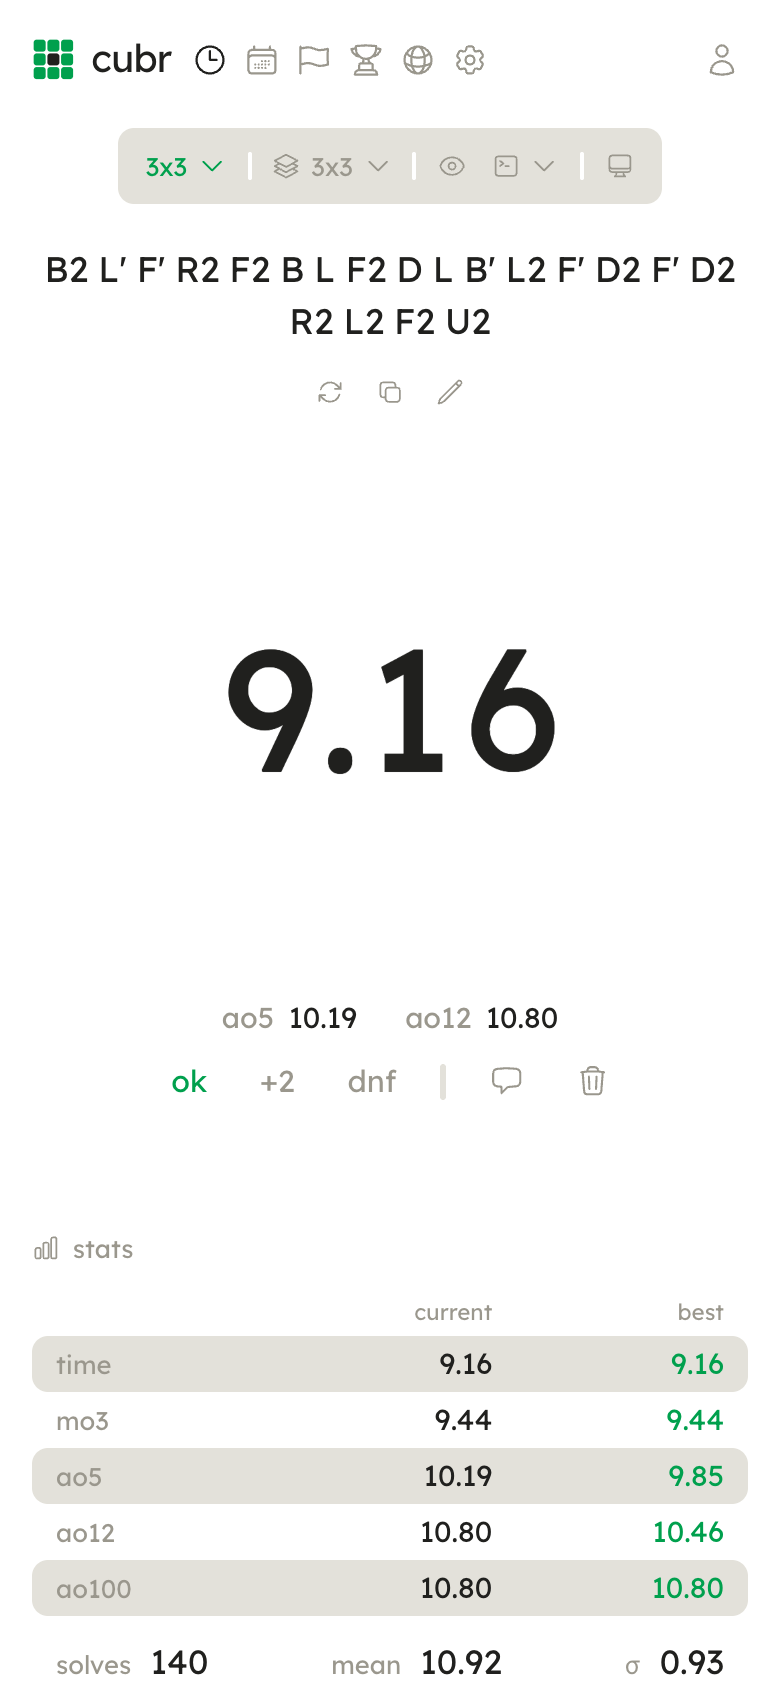
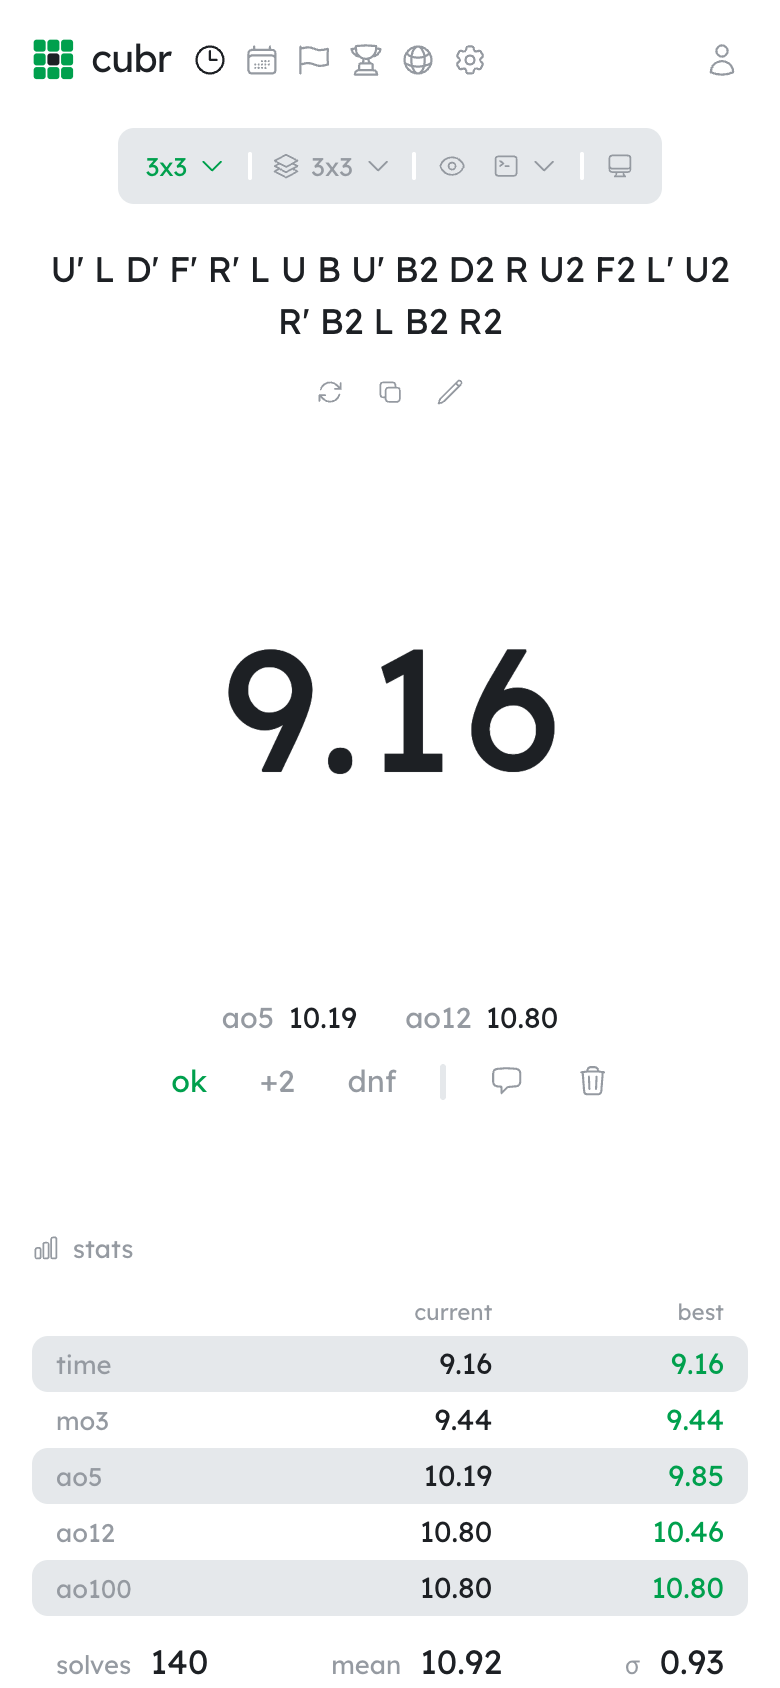
feat(web): white cross gets cool slate greys (Koen's pick)
White cross's warm greys (cards #e3e1da, labels #9a978d) came from its
old cream background; on pure white they read as beige, a little
muddy. Now cool slate: cards #e5e8eb, labels #959aa1, text #1d2024 (the
same lightness as before, so the contrast stays about the same).

- the theme, the first-paint defaults in global.css, the favicon (its
  centre sticker is the text colour), the reset email's text;
- the app icons and the light install screenshots redrawn;
- pwa-assets.mjs now clears the browser's site data before each
  screenshot (an earlier visit's service worker served its cached build
  and announced the new one) and seeds the guest data from a page that
  doesn't run the app (it saved its own fresh data over the seed).

Changed region(s): [[0.0615, 0.154, 0.7385, 0.2156], [0.7692, 0.154, 0.9538, 0.1848]]

diff --git a/web/src/lib/themes.ts b/web/src/lib/themes.ts
@@ -15,7 +15,7 @@ export interface Theme {
 
 export const THEMES: Theme[] = [
   {"name":"stickerless","bg":"#161616","main":"#ffd500","caret":"#ffd500","sub":"#6b6b6b","subAlt":"#202020","text":"#f1f1f1","error":"#e8263c","errorExtra":"#9c1426","colorfulError":"#ff6a13","colorfulErrorExtra":"#b34507"},
-  {"name":"white_cross","bg":"#ffffff","main":"#00a04d","caret":"#0046ad","sub":"#9a978d","subAlt":"#e3e1da","text":"#20201e","error":"#d0252f","errorExtra":"#8f1920","colorfulError":"#ff6a13","colorfulErrorExtra":"#b34507"},
+  {"name":"white_cross","bg":"#ffffff","main":"#00a04d","caret":"#0046ad","sub":"#959aa1","subAlt":"#e5e8eb","text":"#1d2024","error":"#d0252f","errorExtra":"#8f1920","colorfulError":"#ff6a13","colorfulErrorExtra":"#b34507"},
   {"name":"stackmat","bg":"#a3ad94","main":"#2b3a1f","caret":"#151a10","sub":"#5f6a52","subAlt":"#949f85","text":"#151a10","error":"#7d1d1d","errorExtra":"#5a1414","colorfulError":"#8a2a00","colorfulErrorExtra":"#5e1d00"},
   {"name":"sub_10","bg":"#10172a","main":"#f2c14e","caret":"#f2c14e","sub":"#4d5a7c","subAlt":"#0c1222","text":"#e6eaf4","error":"#ff5d6c","errorExtra":"#b33f4b","colorfulError":"#ff5d6c","colorfulErrorExtra":"#b33f4b"},
   {"name":"pll_skip","bg":"#1c1235","main":"#ff79d0","caret":"#6ef2ff","sub":"#6e5ca3","subAlt":"#160e2b","text":"#f3eeff","error":"#ffcc66","errorExtra":"#c99a3f","colorfulError":"#ffcc66","colorfulErrorExtra":"#c99a3f"},

diff --git a/services/auth/src/reset.ts b/services/auth/src/reset.ts
@@ -56,7 +56,7 @@ export function resetEmail(o: { username: string; link: string; minutes: number 
   const user = escapeHtml(o.username);
   const link = escapeHtml(o.link);
   const html = `<!doctype html>
-<html><body style="margin:0;padding:32px 16px;background:#ffffff;color:#20201e;font-family:-apple-system,BlinkMacSystemFont,'Segoe UI',Roboto,sans-serif;font-size:15px;line-height:1.55">
+<html><body style="margin:0;padding:32px 16px;background:#ffffff;color:#1d2024;font-family:-apple-system,BlinkMacSystemFont,'Segoe UI',Roboto,sans-serif;font-size:15px;line-height:1.55">
 <div style="max-width:480px;margin:0 auto">
 <p style="font-size:20px;font-weight:600;margin:0 0 24px">cubr</p>
 <p style="margin:0 0 16px">Hi ${user},</p>

diff --git a/web/src/styles/global.css b/web/src/styles/global.css
@@ -6,9 +6,9 @@
   --bg-color: #ffffff;
   --main-color: #00a04d;
   --caret-color: #0046ad;
-  --sub-color: #9a978d;
-  --sub-alt-color: #e3e1da;
-  --text-color: #20201e;
+  --sub-color: #959aa1;
+  --sub-alt-color: #e5e8eb;
+  --text-color: #1d2024;
   --error-color: #d0252f;
   --error-extra-color: #8f1920;
   --colorful-error-color: #ff6a13;

diff --git a/deploy/README.md b/deploy/README.md
@@ -117,11 +117,11 @@ Run `scripts/commands.sh` section by section (`scripts/commands.sh list` prints 
 
 | section  | Step |
 |---|---|
-| 0 | Variables (`PROJECT_ID=cubr-app`, `ZONE=australia-southeast1-a`, `CLUSTER=cubr`, `REPO=cubr`, `VERSION=1.3.16`) |
+| 0 | Variables (`PROJECT_ID=cubr-app`, `ZONE=australia-southeast1-a`, `CLUSTER=cubr`, `REPO=cubr`, `VERSION=1.3.17`) |
 | 1 | `gcloud auth list`, select your account (`ACCOUNT`, default: gcloud's active one), set project/region/zone |
 | 2 | Enable container, artifactregistry, cloudbuild and compute APIs |
 | 3 | Artifact Registry repo. IAM: nodes get `artifactregistry.reader` and `container.defaultNodeServiceAccount`; the build SA gets `artifactregistry.writer`, `logging.logWriter` and `storage.objectViewer`. |
-| 4 | `gcloud builds submit --config cloudbuild.yaml --substitutions _VERSION=1.3.16,...` (10 images in parallel, native amd64) |
+| 4 | `gcloud builds submit --config cloudbuild.yaml --substitutions _VERSION=1.3.17,...` (10 images in parallel, native amd64) |
 | 5 | `gcloud container clusters create` (3x e2-standard-2, autoscaling 3-5, 30 GB pd-balanced, regular channel, VPC-native) + `get-credentials` |
 | 6 | Reserve the global static IP `cubr-ip` |
 | 7 | Install CloudNativePG 1.30.1 (server-side apply) and wait for the operator |
